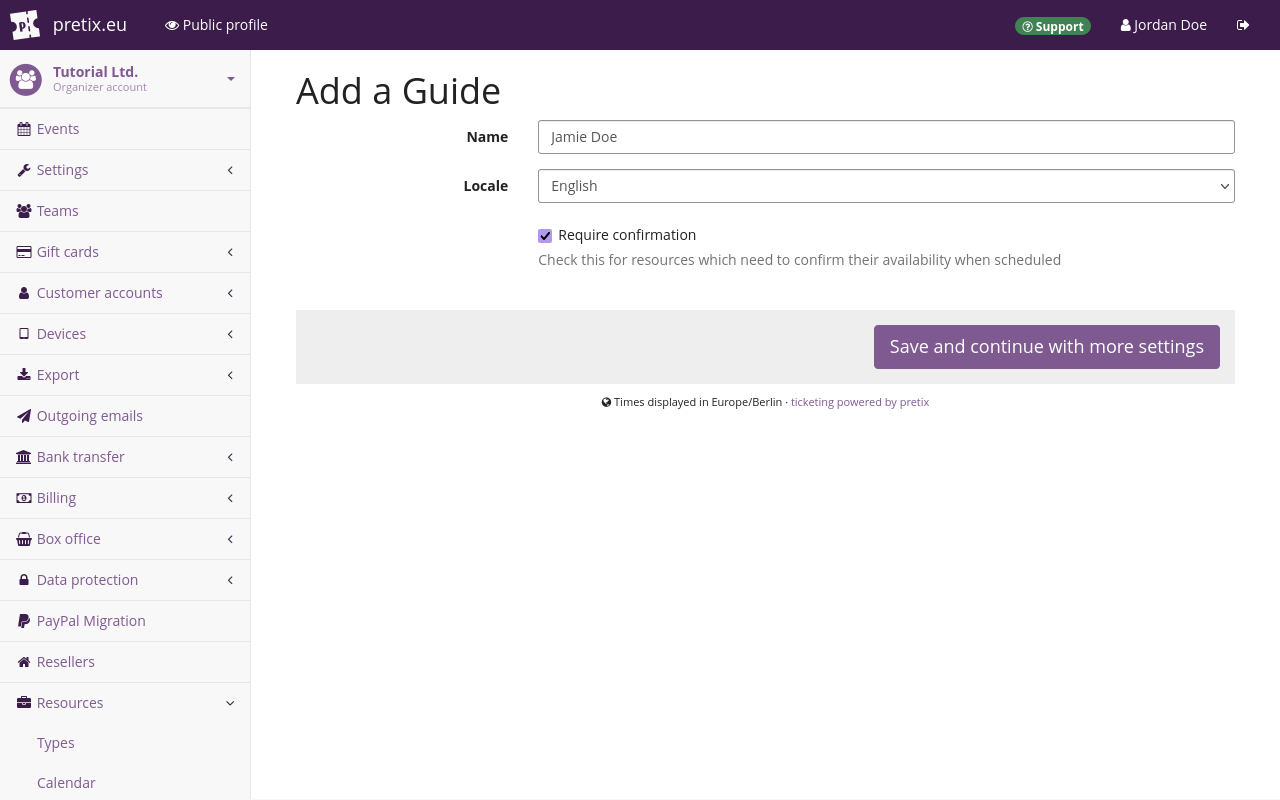
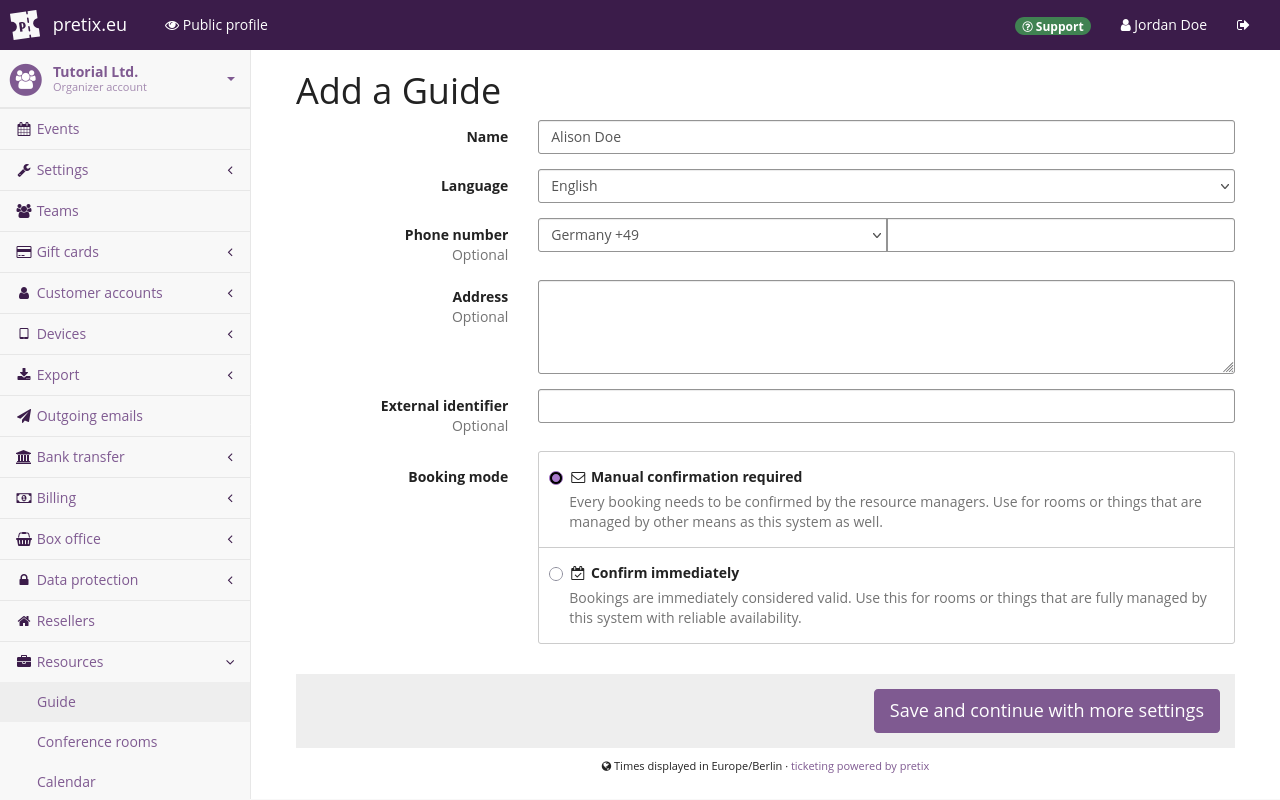
Update step to create an individual resource

diff --git a/docs/guides/resources-and-scheduling.md b/docs/guides/resources-and-scheduling.md
@@ -170,8 +170,20 @@ Click the :btn-icon:fa3-plus: Add a Guide: button.
 If your resource has a different name, then the button will have a different label, too.
 
 If the resource you are creating represents a person, enter their name under "Name".
-Under "Locale", select the language you want to use to communicate with the person through pretix.
-Check the box next to "Require confirmation".
+Under "Language", select the language you want to use to communicate with the person through pretix.
+You may enter additional details: phone number, address, and external identifier.
+
+Your selection under "Booking mode" depends on the way you and your organization manage resources.
+If you manage resources with pretix and no other method, select `Confirm immediately`.
+With this option active, pretix will consider any booking of this individual resource as valid instantly.
+
+If the availability of your resources depends on factors outside of pretix, select `Manual confirmation required`.
+Relevant factors may include availability of personnel due to holiday or sick leave, or the management of resources via an external software or offline system.
+With this option active, there is an extra step to the booking process.
+Whenever you create a booking, pretix will send an email and a notification to the resource managers.
+The managers can then either confirm or deny the booking.
+
+Once you have made your choices, click the :btn:Save and continue with more settings: button.
 
 ![Page titled 'Add a Guide', displaying input fields for name 'Jamie Doe', locale 'English', and a checked box labeled 'Require confirmation'. ](../assets/screens/resources-scheduling/add-guide.png "Add guide")
 
